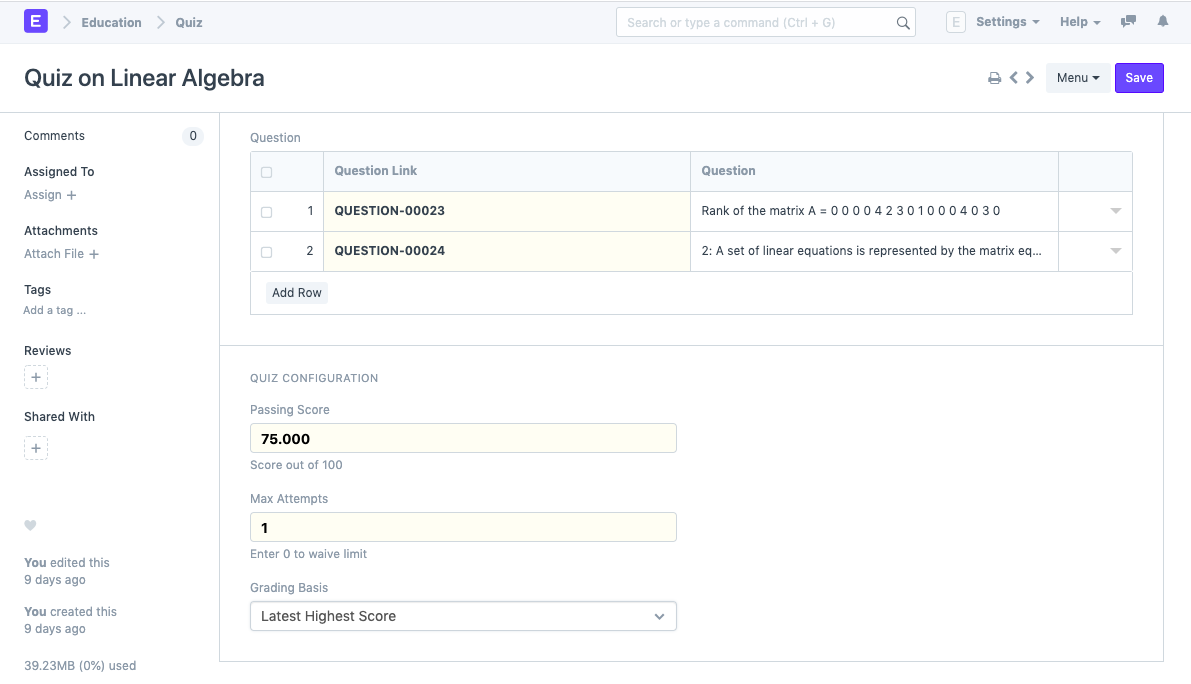
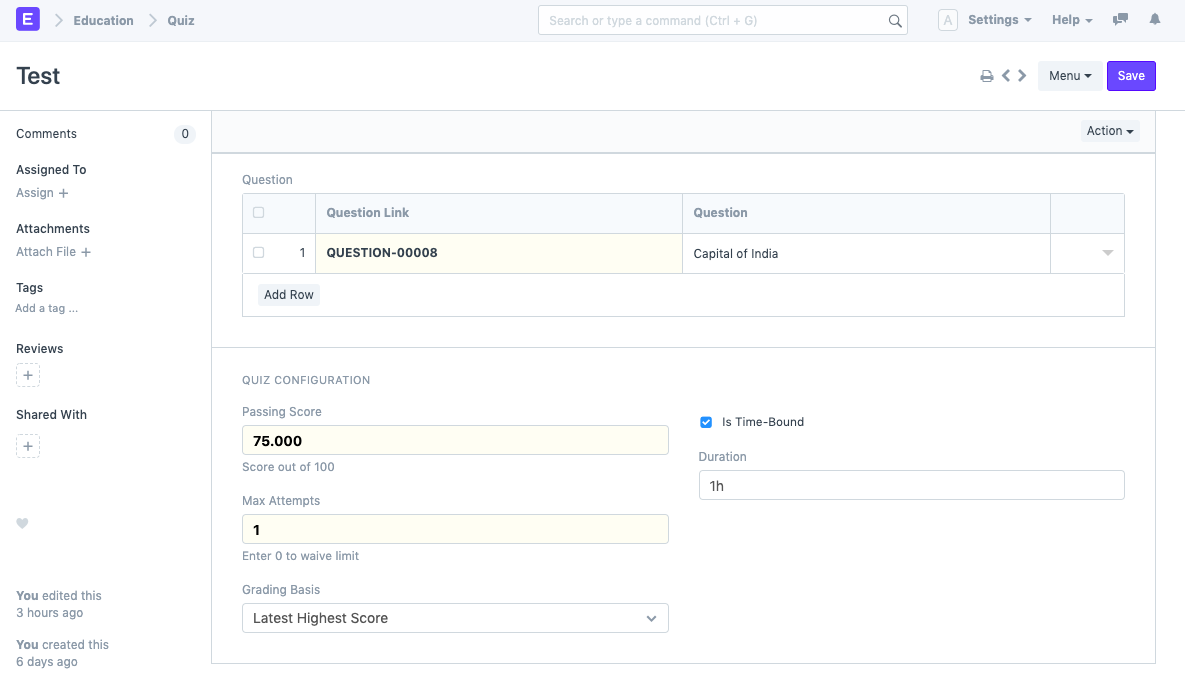
docs: timer in lms quiz (#227)
* docs: timer in lms quiz

* fix: reframe sentence

diff --git a/erpnext_documentation/www/docs/user/manual/en/education/tracking-progress.md b/erpnext_documentation/www/docs/user/manual/en/education/tracking-progress.md
@@ -36,6 +36,6 @@ For each non-quiz type content in a course, a course activity is created every t
 
 ## Quiz Activity
 
-For each quiz attempt, till the student is allowed to attempt the quiz, a quiz activity is created. This doctype has all the information about the attempt viz. The selected options for each question, attempt date, as well as the result of the quiz.
+For each quiz attempt, till the student is allowed to attempt the quiz, a quiz activity is created. This doctype has all the information about the attempt viz. the selected options for each question, attempt date, the result of the quiz, and the time taken to complete, if the quiz is time-bound.
 
 <img class="screenshot" alt="Quiz Activity" src="{{docs_base_url}}/assets/img/education/lms/desk-quiz-activity.png">

diff --git a/erpnext_documentation/www/docs/user/manual/en/education/lms-masters.md b/erpnext_documentation/www/docs/user/manual/en/education/lms-masters.md
@@ -78,6 +78,8 @@ You need to set a passing score, max attempts as well as a grading basis for the
 1. **Grading Basis**: Once the max number of attempts are exhausted, the final score is taken based on the grading basis. The following are the available options:
     - Latest Highest Score: Highest Score from all attempts
     - Latest Attempt: Score from the last attempts
+1. **Is Time-Bound**: If checked, the quiz will have a time limit.
+1. **Duration** If the quiz is time-bound, this field can be used to set the time-limit.
 
 ![LMS Setting](/docs/assets/img/education/education-lms-10.png)
 
